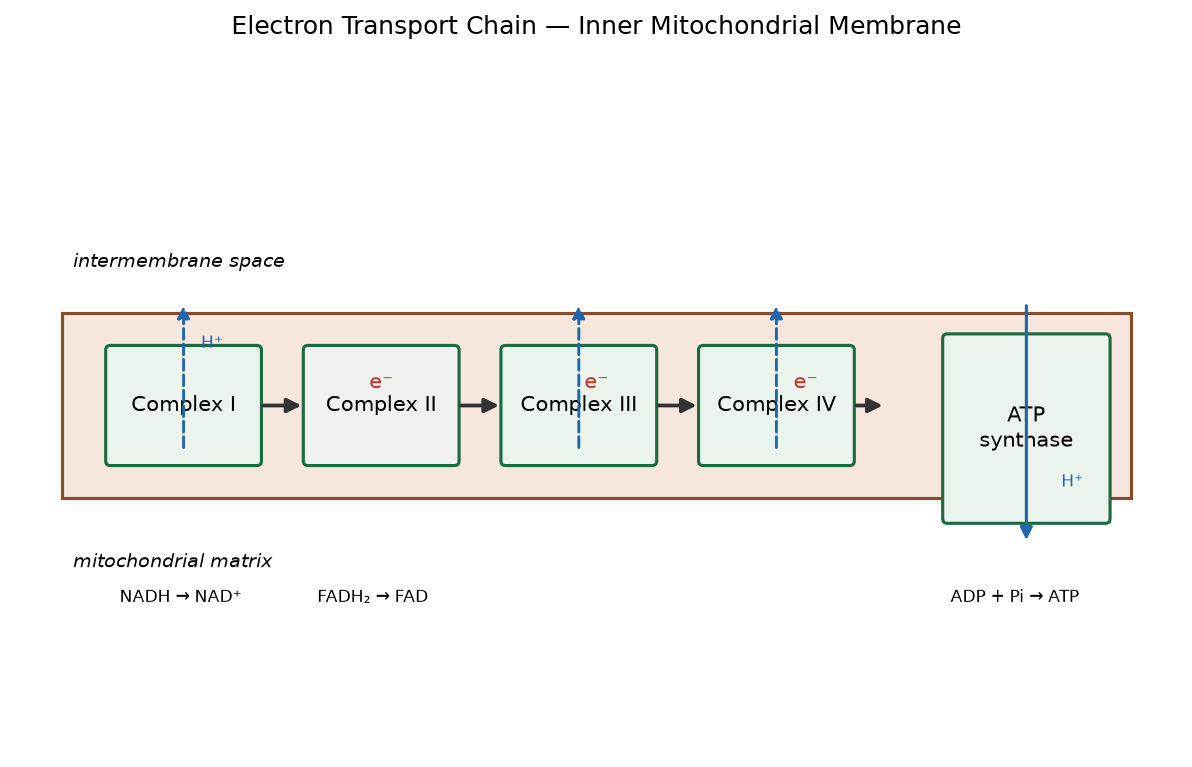
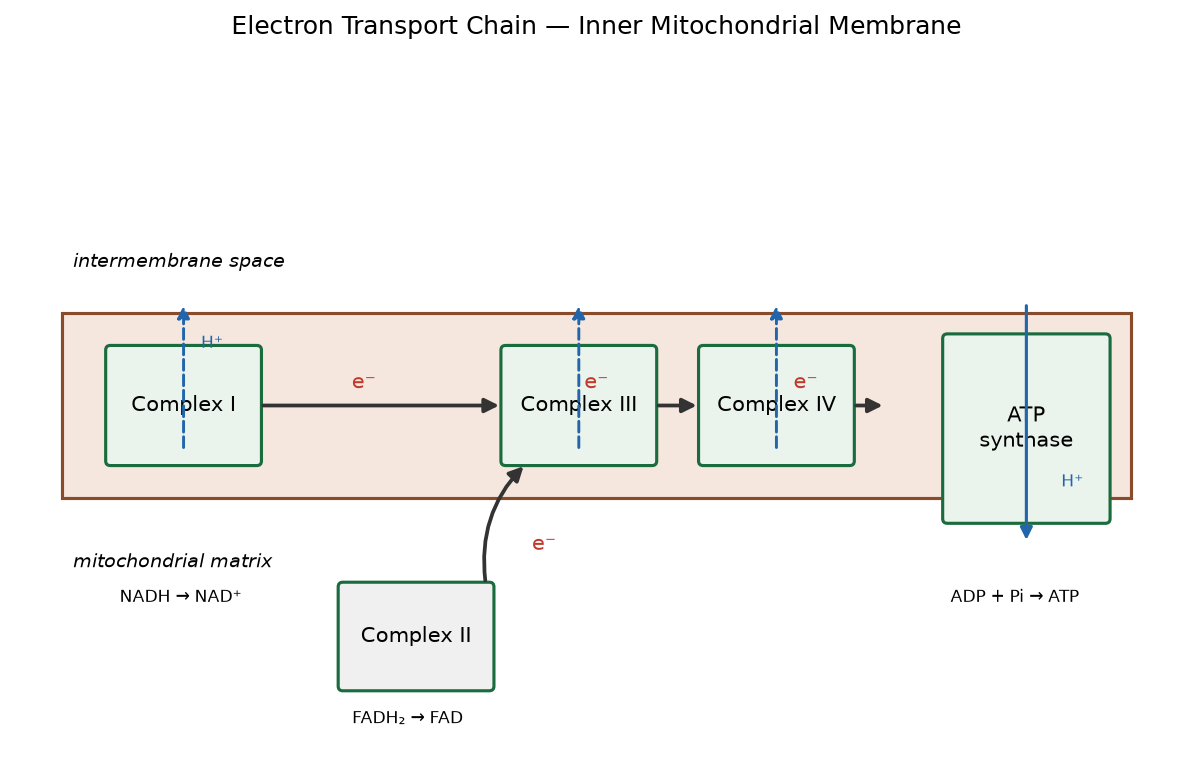
fix: correct 3 scientific errors found in second-pass image review
Second-pass review (before Storage upload) of all 10 generated stimulus
images found 3 real errors, now fixed and regenerated:

- APBIO-FRQ-S-008 (replication fork): fork-movement arrow pointed away
  from the still-paired parental strands into the already-unwound region
  -- backwards, since a fork only advances into unreplicated DNA.
- APBIO-FRQ-S-014 (ETC): a direct Complex I -> Complex II arrow implied a
  single sequential pathway. They're independent parallel entry points
  (NADH and FADH2 respectively) that both feed Complex III.
- APBIO-FRQ-S-015 (lac operon): an arrow from lacI into the operon's
  Promoter box implied a functional link between the two separate
  promoters.

The other 7 images were re-checked in the same pass and are correct.

Claude-Session: https://claude.ai/code/session_01W977cjFn8xChHERMNjbzzA

Changed region(s): [[0.2794, 0.5997, 0.4656, 0.9596], [0.2173, 0.4498, 0.4035, 0.6297]]

diff --git a/docs/research/ap_biology_stimulus_images_2026_07_12/generate.py b/docs/research/ap_biology_stimulus_images_2026_07_12/generate.py
@@ -15,7 +15,7 @@ from matplotlib.patches import FancyArrowPatch, FancyBboxPatch, Circle, Rectangl
 import numpy as np
 import os
 
-OUT = "/tmp/claude-0/-home-user-Cramapple/8364fa9b-b863-5e1c-98b0-196ba700bf15/scratchpad/bio_images"
+OUT = "/tmp/claude-0/-home-user-Cramapple/3e29b1b2-7240-5e27-87a6-445902996b54/scratchpad/bio_images"
 os.makedirs(OUT, exist_ok=True)
 
 plt.rcParams.update({
@@ -247,8 +247,13 @@ def s008():
     ax.text(6.6, 1.15, "lagging strand\n(Okazaki fragments)", fontsize=8, ha="center", color="#c0392b")
     _box(ax, 5.0, 0.55, 1.3, 0.55, "DNA pol", fc="#fbe6e6", fontsize=8)
 
-    _arrow(ax, (4.2, 4.0), (4.6, 4.0))
-    ax.text(4.3, 3.55, "fork\nmovement", fontsize=7, ha="center")
+    # Fork moves INTO the still-unopened parental duplex (left) -- the
+    # leading/lagging strands to the right are already-unwound territory
+    # the fork has passed through, so the arrow must point left, not right.
+    # (Confirmed wrong in the original render: arrow pointed away from the
+    # intact duplex and into the already-replicated region.)
+    _arrow(ax, (3.35, 4.0), (2.95, 4.0))
+    ax.text(3.15, 3.55, "fork\nmovement", fontsize=7, ha="center")
 
     save(fig, "APBIO-FRQ-S-008.png")
 
@@ -308,22 +313,29 @@ def s014():
     ax.text(0.5, 4.2, "intermembrane space", fontsize=9, style="italic")
     ax.text(0.5, 1.6, "mitochondrial matrix", fontsize=9, style="italic")
 
+    # Complex I and Complex II are INDEPENDENT, parallel entry points into
+    # the chain (from NADH and FADH2 respectively) -- they do not feed into
+    # each other. Both hand electrons to Complex III. The original render
+    # drew a direct Complex I -> Complex II arrow, wrongly implying a single
+    # sequential I-II-III-IV pathway; fixed by moving Complex II off the
+    # main row with its own separate arrow into Complex III.
     _box(ax, 0.8, 2.5, 1.3, 1.0, "Complex I")
-    _box(ax, 2.5, 2.5, 1.3, 1.0, "Complex II", fc="#f0f0f0")
     _box(ax, 4.2, 2.5, 1.3, 1.0, "Complex III")
     _box(ax, 5.9, 2.5, 1.3, 1.0, "Complex IV")
     _box(ax, 8.0, 2.0, 1.4, 1.6, "ATP\nsynthase")
+    _box(ax, 2.8, 0.55, 1.3, 0.9, "Complex II", fc="#f0f0f0")
 
     ax.text(0.9, 1.3, "NADH → NAD⁺", fontsize=8)
-    ax.text(2.6, 1.3, "FADH₂ → FAD", fontsize=8)
+    ax.text(2.9, 0.25, "FADH₂ → FAD", fontsize=8)
 
-    _arrow(ax, (2.1, 3.0), (2.5, 3.0))
-    _arrow(ax, (3.8, 3.0), (4.2, 3.0))
+    _arrow(ax, (2.1, 3.0), (4.2, 3.0))
     _arrow(ax, (5.5, 3.0), (5.9, 3.0))
     _arrow(ax, (7.2, 3.0), (7.5, 3.0))
-    ax.text(3.15, 3.15, "e⁻", color="#c0392b", fontsize=10, ha="center")
+    _arrow(ax, (4.05, 1.45), (4.4, 2.5), connectionstyle="arc3,rad=-0.25")
+    ax.text(3.0, 3.15, "e⁻", color="#c0392b", fontsize=10, ha="center")
     ax.text(5.0, 3.15, "e⁻", color="#c0392b", fontsize=10, ha="center")
     ax.text(6.8, 3.15, "e⁻", color="#c0392b", fontsize=10, ha="center")
+    ax.text(4.55, 1.75, "e⁻", color="#c0392b", fontsize=10, ha="center")
 
     for x in (1.45, 4.85, 6.55):
         ax.annotate("", xy=(x, 3.9), xytext=(x, 2.6),
@@ -348,10 +360,14 @@ def s015():
     ax.axis("off")
     ax.set_title("The lac Operon", fontsize=13, pad=12)
 
-    # regulatory gene lacI with own promoter
+    # regulatory gene lacI, transcribed from its own separate promoter --
+    # NOT the operon's Promoter box a few pixels to the right. The original
+    # render drew an arrow from lacI straight into that Promoter box, which
+    # visually implied a functional link between the two (as if lacI's
+    # transcription fed into starting the operon); replaced with a small
+    # self-contained annotation above lacI instead, with no connecting line.
     _box(ax, 0.4, 3.7, 1.6, 0.8, "lacI\n(regulatory gene)", fc="#eaf3ec", fontsize=8)
-    _arrow(ax, (2.0, 4.1), (2.4, 4.1))
-    ax.text(2.05, 4.35, "own\npromoter", fontsize=6, ha="center")
+    ax.text(1.2, 4.7, "(has its own separate promoter,\nnot shown)", fontsize=6, ha="center", style="italic")
 
     # repressor protein produced
     ax.add_patch(Circle((1.2, 2.3), 0.4, facecolor="#f2c14e", edgecolor="#333"))

diff --git a/docs/research/ap_biology_stimulus_images_2026_07_12/README.md b/docs/research/ap_biology_stimulus_images_2026_07_12/README.md
@@ -66,6 +66,25 @@ before this directory was written (see the corresponding activity log
 entry for the review notes, e.g. Complex II correctly shown without proton
 pumping, ETC/GPCR pathway order, replication fork topology).
 
+**2026-07-19 second-pass review (before Storage upload) found 3 real
+errors in the initial batch, since fixed and regenerated:**
+
+- `APBIO-FRQ-S-008` (replication fork): the "fork movement" arrow pointed
+  *away* from the still-paired parental strands and into the
+  already-unwound leading/lagging-strand region — backwards, since a fork
+  can only advance into unreplicated DNA. Arrow direction corrected.
+- `APBIO-FRQ-S-014` (ETC): drew a direct Complex I → Complex II arrow,
+  implying a single sequential I→II→III→IV pathway. Complex I and Complex
+  II are independent, parallel entry points (from NADH and FADH₂
+  respectively) that both feed Complex III — they don't feed each other.
+  Complex II moved off the main row with its own arrow into Complex III.
+- `APBIO-FRQ-S-015` (lac operon): an arrow ran from `lacI` directly into
+  the operon's `Promoter` box, visually implying a functional link between
+  lacI's own promoter and the operon's promoter. Replaced with a
+  standalone annotation on `lacI`, no connecting line.
+
+The other 7 images were re-checked in the same pass and found correct.
+
 ## Remaining steps once tool access is restored
 
 1. **Apply migration** `supabase/migrations/202607121001_add_stimulus_image_path.sql`
